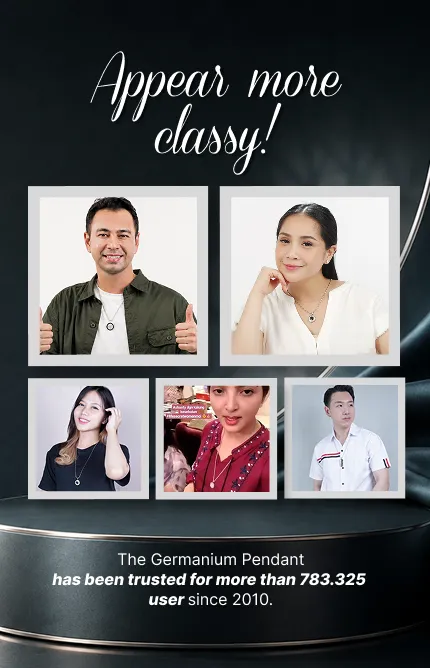
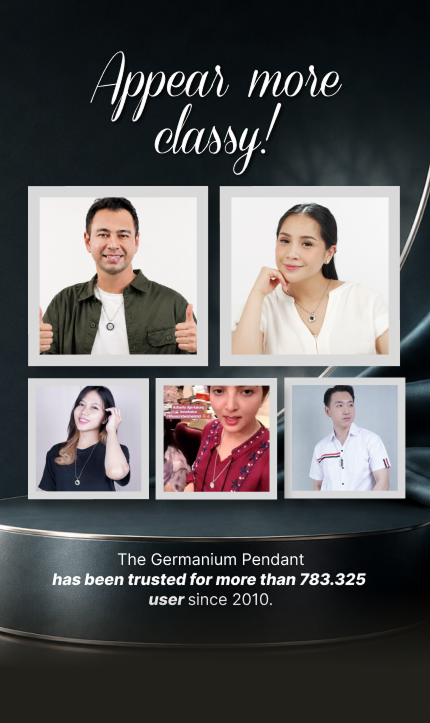
update

diff --git a/index.html b/index.html
@@ -99,7 +99,7 @@
             <div class="flex justify-center xl:hidden bg-black relative">
                 <img class="id w-full h-auto block" src="assets/mobile/section-1-mobile.webp" alt="">
                 <img class="en w-full h-auto block" src="assets/mobile/en/section-1-mobile.webp" alt="">
-                <div class="pemisah-mobile pemisah-black absolute -bottom-25 w-full max-w-[1920px] 2xl:hidden flex flex-col"></div>
+                <div class="pemisah-mobile pemisah-black absolute -bottom-25 w-full max-w-[1920px] 2xl:hidden flex flex-col z-[5]"></div>
             </div>
             <div class="flex justify-center xl:hidden bg-black relative">
                 <img class="id w-full h-auto block" src="assets/mobile/section-2-mobile.webp" alt="">
@@ -113,13 +113,13 @@
         </div> -->
 
         <section class="section-3 relative">
-            
+            <div class="pemisah-mobile pemisah absolute -top-25 w-full max-w-[1920px] 2xl:hidden flex flex-col z-[5]"></div>
             <img class="id hidden xl:block w-full h-auto" src="assets/section-3.webp" alt="">
             <img class="en hidden xl:block w-full h-auto" src="assets/en/section-3.webp" alt="">
             <div class="flex justify-center xl:hidden bg-black relative">
                 <img class="id w-full h-auto block" src="assets/mobile/section-3-mobile.webp" alt="">
                 <img class="en w-full h-auto block" src="assets/mobile/en/section-3-mobile.webp" alt="">
-                <div class="pemisah-mobile pemisah absolute -bottom-25 w-full max-w-[1920px] 2xl:hidden flex flex-col"></div>
+                <div class="pemisah-mobile pemisah absolute -bottom-25 w-full max-w-[1920px] 2xl:hidden flex flex-col z-[5]"></div>
             </div>
             <div class="pemisah absolute -bottom-25 w-full max-w-[1920px] hidden xl:flex flex-col z-[5]"></div>
         </section>
@@ -352,6 +352,7 @@
 
                 <h1
                     class="
+                        id
                         coneria
                         text-[45px]
                         sm:text-[55px]
@@ -361,6 +362,19 @@
                     "
                 >
                     Batu Germanium
+                </h1>
+                <h1
+                    class="
+                        en
+                        coneria
+                        text-[45px]
+                        sm:text-[55px]
+                        md:text-[65px]
+                        xl:text-[85px]
+                        leading-tight
+                    "
+                >
+                    Germanium Stone
                 </h1>
 
 
@@ -1229,9 +1243,9 @@
                 <div class="col-span-4 text-white flex items-center justify-center">
                     <div class="">
                         <h2 class="id coneria text-[68px] 2xl:text-[100px] leading-tight">Tampil <br>lebih <br>berkelas!</h2>
-                        <h2 class="en coneria text-[68px] 2xl:text-[100px] leading-tight">Appear <br>more <br>dassy!</h2>
+                        <h2 class="en ms-15 coneria text-[68px] 2xl:text-[100px] leading-tight">Appear <br>more <br>classy!</h2>
                         <p class="id inter text-[24px] 2xl:text-[35px]">Germanium Pendant telah <br><span class="inter-bold-italic text-[32px] 2xl:text-[45px]">dipercaya lebih dari <br>783.325 orang</span> <br>sejak 2010.</p>
-                        <p class="en inter text-[24px] 2xl:text-[35px]">The Germanium Pendant <br><span class="inter-bold-italic text-[32px] 2xl:text-[45px]">has been trusted for more than <br>783.325 user</span> <br>since 2010.</p>
+                        <p class="en ms-15 inter text-[24px] 2xl:text-[35px]">The Germanium Pendant <br><span class="inter-bold-italic text-[32px] 2xl:text-[45px]">has been trusted for more than <br>783.325 user</span> <br>since 2010.</p>
                     </div>
                 </div>
             </div>
@@ -1285,7 +1299,7 @@
                         px-5
                     "
                 >
-                    CHOOSE YOUR GAVOURITE DESIGN SERIES
+                    CHOOSE YOUR FAVOURITE DESIGN SERIES
                 </h2>
 
 
